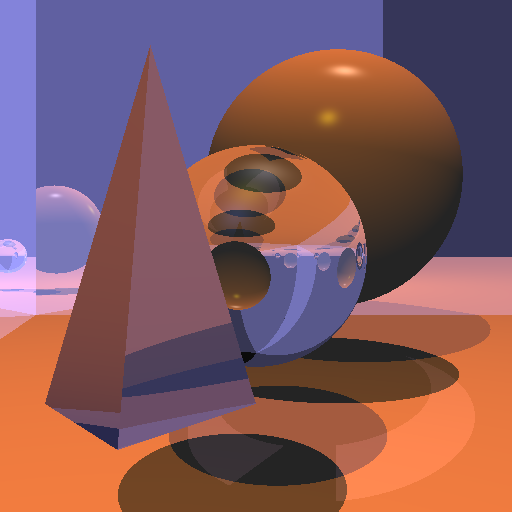
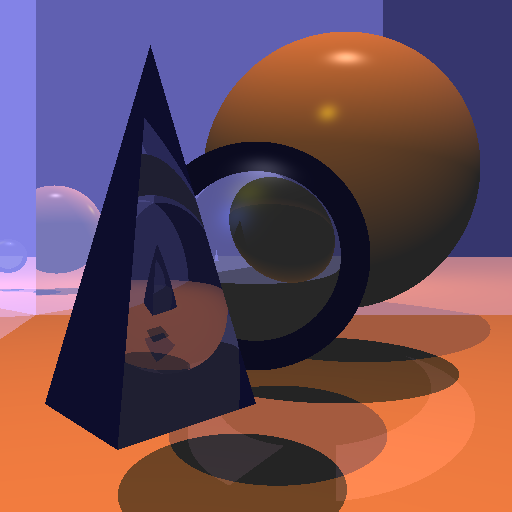
added new rendered scenes

diff --git a/src/main.cpp b/src/main.cpp
@@ -109,8 +109,8 @@ main( int argc, char **argv )
 {
    glutInit( &argc, argv );
    glutInitDisplayMode( GLUT_RGBA | GLUT_DOUBLE | GLUT_DEPTH );
-   //glutInitWindowSize( 512, 512 );
-   glutInitWindowSize(300, 300);
+   glutInitWindowSize( 512, 512 );
+   //glutInitWindowSize(300, 300);
    //glutInitWindowSize(90, 90);
    glutInitContextVersion( 3, 2 );
    glutInitContextProfile( GLUT_CORE_PROFILE );

diff --git a/src/raytracer.cpp b/src/raytracer.cpp
@@ -207,7 +207,7 @@ glm::vec3 refractRay(glm::vec3 hitPos, glm::vec3 I, glm::vec3 N, float eta) {
 	float dotIN = dot(I, N);
 	float k = 1 - eta * eta * (1 - dotIN * dotIN);
 
-	if (k < 0.0001) { 
+	if (k < 0) { 
 		// total internal reflection	
 		return glm::vec3(0, 0, 0);
 	}
